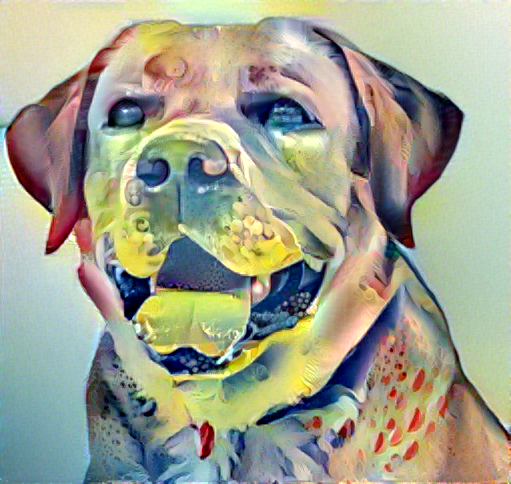
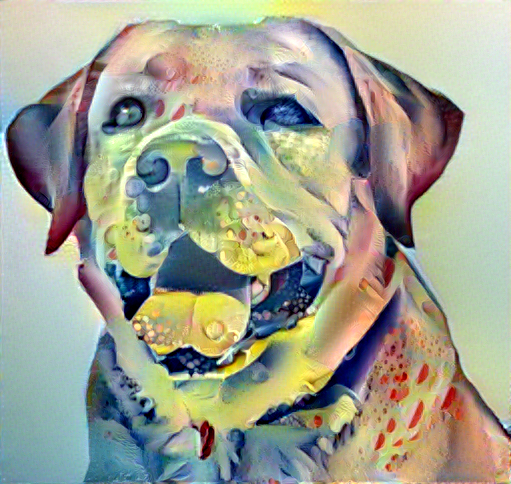
current strotts version

diff --git a/st_helper.py b/st_helper.py
@@ -2,6 +2,7 @@ import time
 import math
 import sys
 from glob import glob
+import shutil
 
 import torch
 from torch.autograd import Variable
@@ -9,13 +10,13 @@ import torch.nn.functional as F
 import torch.optim as optim
 from imageio import imread, imwrite
 
-import utils
-from utils import *
-from vgg_pt import *
-from pyr_lap import *
-from stylize_objectives import objective_class
+import flaskr.strotss.utils
+from flaskr.strotss.utils import *
+from flaskr.strotss.vgg_pt import *
+from flaskr.strotss.pyr_lap import *
+from flaskr.strotss.stylize_objectives import objective_class
 
-def style_transfer(stylized_im, content_im, style_path, scl, long_side, mask, content_weight=0., use_guidance=False, regions=0, coords=0, lr=2e-3):
+def style_transfer(stylized_im, content_im, style_path, output_path, scl, long_side, mask, content_weight=0., use_guidance=False, regions=0, coords=0, lr=2e-3):
 
     REPORT_INTERVAL = 100
     RESAMPLE_FREQ = 1
@@ -23,12 +24,19 @@ def style_transfer(stylized_im, content_im, style_path, scl, long_side, mask, co
     MAX_ITER = 250
     save_ind = 0
 
+    use_pyr=True
+    if scl > 3:
+        use_pyr = False
+
+    temp_name = './'+output_path.split('/')[-1].split('.')[0]+'_temp.png'
+
     ### Keep track of current output image for GUI ###
-    canvas = torch.clamp(stylized_im[0],-0.5,0.5).data.cpu().numpy().transpose(1,2,0)
-    imwrite('./output.png',canvas)
+    canvas = aug_canvas(stylized_im, scl, 0)
+    imwrite(temp_name, canvas)
+    shutil.move(temp_name, output_path)
 
     #### Define feature extractor ###
-    cnn = utils.to_device(Vgg16_pt())
+    cnn = flaskr.strotss.utils.to_device(Vgg16_pt())
 
     phi = lambda x: cnn.forward(x)
     phi2 = lambda x, y, z: cnn.forward_cat(x,z,samps=y,forward_func=cnn.forward)
@@ -38,9 +46,12 @@ def style_transfer(stylized_im, content_im, style_path, scl, long_side, mask, co
 
 
     ### Define Optimizer ###
+    if use_pyr:
+        s_pyr = dec_lap_pyr(stylized_im,5)
+        s_pyr = [Variable(li.data,requires_grad=True) for li in s_pyr]
+    else:
+        s_pyr = [Variable(stylized_im.data,requires_grad=True)]
 
-    s_pyr = dec_lap_pyr(stylized_im,5)
-    s_pyr = [Variable(li.data,requires_grad=True) for li in s_pyr]
     optimizer =  optim.RMSprop(s_pyr,lr=lr)
 
     ### Pre-Extract Content Features ###
@@ -66,9 +77,16 @@ def style_transfer(stylized_im, content_im, style_path, scl, long_side, mask, co
 
 
     ### Randomly choose spatial locations to extract features from ###
-    stylized_im = syn_lap_pyr(s_pyr)
+    if use_pyr:
+        stylized_im = syn_lap_pyr(s_pyr)
+    else:
+        stylized_im = s_pyr[0]
+
     for ri in range(len(regions[0])):
-        r=imresize(regions[0][ri],(stylized_im.size(3),stylized_im.size(2)),interp='bilinear')
+        
+        r_temp = regions[1][ri]
+        r_temp = torch.from_numpy(r_temp).unsqueeze(0).unsqueeze(0).contiguous()
+        r = F.upsample(r_temp,(stylized_im.size(3),stylized_im.size(2)),mode='bilinear')[0,0,:,:].numpy()        
 
         if r.max()<0.1:
             r = np.greater(r+1.,0.5)
@@ -86,18 +104,24 @@ def style_transfer(stylized_im, content_im, style_path, scl, long_side, mask, co
 
         ### zero out gradients and compute output image from pyramid ##
         optimizer.zero_grad()
-        stylized_im = syn_lap_pyr(s_pyr)
-
+        if use_pyr:
+            stylized_im = syn_lap_pyr(s_pyr)
+        else:
+            stylized_im = s_pyr[0]
 
         ## Dramatically Resample Large Set of Spatial Locations ##
         if i==0 or i%(RESAMPLE_FREQ*10) == 0:
             for ri in range(len(regions[0])):
-                r=imresize(regions[0][ri],(stylized_im.size(3),stylized_im.size(2)),interp='bilinear')
+                
+                r_temp = regions[1][ri]
+                r_temp = torch.from_numpy(r_temp).unsqueeze(0).unsqueeze(0).contiguous()
+                r = F.upsample(r_temp,(stylized_im.size(3),stylized_im.size(2)),mode='bilinear')[0,0,:,:].numpy()        
 
                 if r.max()<0.1:
                     r = np.greater(r+1.,0.5)
                 else:
                     r = np.greater(r,0.5)
+
                 objective_wrapper.init_inds(z_c, z_s_all,r,ri)
 
         ## Subsample spatial locations to compute loss over ##
@@ -115,16 +139,14 @@ def style_transfer(stylized_im, content_im, style_path, scl, long_side, mask, co
             
         ## Periodically save output image for GUI ###
         if (i+1)%10==0:
-            canvas = torch.clamp(stylized_im[0],-0.5,0.5).data.cpu().numpy().transpose(1,2,0)
-            imwrite('./output.png',canvas)
+            canvas = aug_canvas(stylized_im, scl, i)
+            imwrite(temp_name, canvas)
+            shutil.move(temp_name, output_path)
 
         ### Periodically Report Loss and Save Current Image ###
         if (i+1)%REPORT_INTERVAL == 0:
             print((i+1),ell)
             save_ind += 1
 
-    ### Keep track of current output image for GUI ###
-    canvas = torch.clamp(stylized_im[0],-0.5,0.5).data.cpu().numpy().transpose(1,2,0)
-    imwrite('./output.png',canvas)
 
     return stylized_im, ell

diff --git a/styleTransfer.py b/styleTransfer.py
@@ -9,9 +9,9 @@ import torch.optim as optim
 import numpy as np
 from imageio import imread, imwrite
 
-from st_helper import *
-import utils
-from utils import *
+from flaskr.strotss.st_helper import *
+import flaskr.strotss.utils
+from flaskr.strotss.utils import *
 
 def run_st(content_path, style_path, content_weight, max_scl, coords, use_guidance,regions, output_path='./output.png'):
 
@@ -19,7 +19,7 @@ def run_st(content_path, style_path, content_weight, max_scl, coords, use_guidan
     
     start = time.time()
 
-    content_im_big = utils.to_device(Variable(load_path_for_pytorch(content_path,512,force_scale=True).unsqueeze(0)))
+    content_im_big = flaskr.strotss.utils.to_device(Variable(load_path_for_pytorch(content_path,512,force_scale=True).unsqueeze(0)))
 
     for scl in range(1,max_scl):
 
@@ -27,8 +27,8 @@ def run_st(content_path, style_path, content_weight, max_scl, coords, use_guidan
         lr = 2e-3
 
         ### Load Style and Content Image ###
-        content_im = utils.to_device(Variable(load_path_for_pytorch(content_path,long_side,force_scale=True).unsqueeze(0)))
-        content_im_mean = utils.to_device(Variable(load_path_for_pytorch(style_path,long_side,force_scale=True).unsqueeze(0))).mean(2,keepdim=True).mean(3,keepdim=True)
+        content_im = flaskr.strotss.utils.to_device(Variable(load_path_for_pytorch(content_path,long_side,force_scale=True).unsqueeze(0)))
+        content_im_mean = flaskr.strotss.utils.to_device(Variable(load_path_for_pytorch(style_path,long_side,force_scale=True).unsqueeze(0))).mean(2,keepdim=True).mean(3,keepdim=True)
         
         ### Compute bottom level of laplaccian pyramid for content image at current scale ###
         lap = content_im.clone()-F.upsample(F.upsample(content_im,(content_im.size(2)//2,content_im.size(3)//2),mode='bilinear'),(content_im.size(2),content_im.size(3)),mode='bilinear')
@@ -57,7 +57,7 @@ def run_st(content_path, style_path, content_weight, max_scl, coords, use_guidan
             lr = 1e-3
 
         ### Style Transfer at this scale ###
-        stylized_im, final_loss = style_transfer(stylized_im, content_im, style_path, scl, long_side, 0., use_guidance=use_guidance, coords=coords, content_weight=content_weight, lr=lr, regions=regions)
+        stylized_im, final_loss = style_transfer(stylized_im, content_im, style_path, output_path, scl, long_side, 0., use_guidance=use_guidance, coords=coords, content_weight=content_weight, lr=lr, regions=regions)
 
         canvas = F.upsample(torch.clamp(stylized_im,-0.5,0.5),(content_im.size(2),content_im.size(3)),mode='bilinear')[0].data.cpu().numpy().transpose(1,2,0)
         
@@ -82,7 +82,7 @@ if __name__=='__main__':
     use_guidance = '-g' in sys.argv
     use_guidance_region = '-gr' in sys.argv
     use_gpu = not ('-cpu' in sys.argv)
-    utils.use_gpu = use_gpu
+    flaskr.strotss.utils.use_gpu = use_gpu
 
 
     paths = glob(style_path+'*')
@@ -93,10 +93,10 @@ if __name__=='__main__':
     ### Preprocess User Guidance if Required ###
     coords=0.
     if use_guidance:
-        coords = utils.build_guidance(content_path,style_path,np.load('saved_guide01.npy'))
+        coords = flaskr.strotss.utils.build_guidance(content_path,style_path,np.load('saved_guide01.npy'))
 
     if use_guidance_region:
-        regions = utils.extract_regions('./owls_g_c.jpg','./vase_g_s.jpg')
+        regions = flaskr.strotss.utils.extract_regions('./owls_g_c.jpg','./vase_g_s.jpg')
     else:
         try:
             regions = [[imread(content_path)[:,:,0]*0.+1.], [imread(style_path)[:,:,0]*0.+1.]]

diff --git a/contextual_loss.py b/contextual_loss.py
@@ -3,8 +3,7 @@ from torch.autograd import Variable
 import torch.nn.functional as F
 import numpy as np
 import time
-import utils
-from scipy.misc import imsave
+import flaskr.strotss.utils
 
 def pairwise_distances_sq_l2(x, y):
 
@@ -35,7 +34,7 @@ def pairwise_distances_cos(x, y):
 def get_DMat(X,Y,h=1.0,cb=0,splits=[128*3+256*3+512*4], cos_d=True):
     n = X.size(0)
     m = Y.size(0)
-    M = utils.to_device(Variable(torch.zeros(n,m)))
+    M = flaskr.strotss.utils.to_device(Variable(torch.zeros(n,m)))
 
 
     if 1:
@@ -83,9 +82,6 @@ def viz_d(zx,coords):
 
     vis_o = viz.clone()
     viz = viz.data.cpu().numpy()[0,0,:,:]/len(zx)
-    #imsave('dviz.png',viz)
-
-
     return vis_o
 
 # [3,64,64,128,128,256,256,256,512,512,512,512,512,512]
@@ -97,8 +93,8 @@ def remd_loss(X,Y, h=None, cos_d=True, splits= [3+64+64+128+128+256+256+256+512+
 
 
     if d == 3:
-        X = utils.rgb_to_yuv_pc(X.transpose(0,1).contiguous().view(d,-1)).transpose(0,1)
-        Y = utils.rgb_to_yuv_pc(Y.transpose(0,1).contiguous().view(d,-1)).transpose(0,1)
+        X = flaskr.strotss.utils.rgb_to_yuv_pc(X.transpose(0,1).contiguous().view(d,-1)).transpose(0,1)
+        Y = flaskr.strotss.utils.rgb_to_yuv_pc(Y.transpose(0,1).contiguous().view(d,-1)).transpose(0,1)
 
     else:
         X = X.transpose(0,1).contiguous().view(d,-1).transpose(0,1)
@@ -139,10 +135,10 @@ def remd_loss_g(X,Y, GX, GY, h=1.0, splits= [3+64+64+128+128+256+256+256+512+512
     d = X.size(1)
 
     if d == 3:
-        X = utils.rgb_to_yuv_pc(X.transpose(0,1).contiguous().view(d,-1)).transpose(0,1)
-        Y = utils.rgb_to_yuv_pc(Y.transpose(0,1).contiguous().view(d,-1)).transpose(0,1)
-        GX = utils.rgb_to_yuv_pc(GX.transpose(0,1).contiguous().view(d,-1)).transpose(0,1)
-        GY = utils.rgb_to_yuv_pc(GY.transpose(0,1).contiguous().view(d,-1)).transpose(0,1)
+        X = flaskr.strotss.utils.rgb_to_yuv_pc(X.transpose(0,1).contiguous().view(d,-1)).transpose(0,1)
+        Y = flaskr.strotss.utils.rgb_to_yuv_pc(Y.transpose(0,1).contiguous().view(d,-1)).transpose(0,1)
+        GX = flaskr.strotss.utils.rgb_to_yuv_pc(GX.transpose(0,1).contiguous().view(d,-1)).transpose(0,1)
+        GY = flaskr.strotss.utils.rgb_to_yuv_pc(GY.transpose(0,1).contiguous().view(d,-1)).transpose(0,1)
 
 
     else:

diff --git a/utils.py b/utils.py
@@ -10,6 +10,9 @@ import torch.nn as nn
 import torch.nn.functional as F
 import torch
 from imageio import imread
+from PIL import Image
+from PIL import ImageFont
+from PIL import ImageDraw 
 
 use_gpu = True
 
@@ -25,6 +28,41 @@ def match_device(ref, mut):
 
 #Define YUV color transform
 C = torch.from_numpy(np.float32([[0.577350,0.577350,0.577350],[-0.577350,0.788675,-0.211325],[-0.577350,-0.211325,0.788675]]))
+
+wip_img = torch.from_numpy(imread('./flaskr/static/output_ims/wip.png').astype(np.float32)).permute(2,0,1).unsqueeze(0)
+wip_img = F.upsample(wip_img,(100,100),mode='bilinear')
+def aug_canvas(canvas, scale, s_iter):
+
+    h = canvas.size(2)
+    w = canvas.size(3)
+
+    mx = max(h,w)
+
+    frac = 512./float(mx)
+
+    h = int(h*frac)
+    w = int(w*frac)
+
+    prg = 0.
+    if scale < 4:
+        prg = (scale-1)*0.21+s_iter/250.*0.21
+    else:
+        prg = 0.63+s_iter/250.*0.37
+    prg = int(prg*100.)
+
+    canvas = F.upsample(canvas,(h,w),mode='bilinear').cpu()
+
+    canvas = torch.clamp(canvas[0],-0.5,0.5).data.numpy().transpose(1,2,0)
+
+    canvas = Image.fromarray(np.uint8((canvas+0.5)*255))
+
+    draw = ImageDraw.Draw(canvas)
+    # font = ImageFont.truetype(<font-file>, <font-size>)
+    font = ImageFont.truetype("./flaskr/static/DroidSansMono.ttf", 16)
+    # draw.text((x, y),"Sample Text",(r,g,b))
+    draw.text((0, 0),"Progress: {0}%".format(prg),(0,255,0),font=font)
+
+    return np.array(canvas)
 
 def rgb_to_yuv(rgb):
 
@@ -313,7 +351,7 @@ def load_style_folder(phi, paths, regions, ri, n_samps=-1,subsamps=-1,scale=-1, 
         
         r_temp = regions[1][ri]
         r_temp = torch.from_numpy(r_temp).unsqueeze(0).unsqueeze(0).contiguous()
-        r = F.upsample(r_temp,(style_im.size(2),style_im.size(3)),mode='bilinear')[0,0,:,:].numpy()        
+        r = F.upsample(r_temp,(style_im.size(3),style_im.size(2)),mode='bilinear')[0,0,:,:].numpy()        
         sts = [style_im]
 
         z_ims.append(style_im)

diff --git a/stylize_objectives.py b/stylize_objectives.py
@@ -3,10 +3,9 @@ import math
 import torch
 from torch.autograd import Variable
 import torch.nn.functional as F
-from scipy.misc import imresize
 
-from contextual_loss import *
-import utils
+from flaskr.strotss.contextual_loss import *
+import flaskr.strotss.utils
 
 
 class objective_class():
@@ -147,7 +146,7 @@ class objective_class():
             try:
                 xc = xc[region_mask[xy[:,0],xx[:,0]],:]
             except:
-                region_mask = region_mask[:,:,0]
+                region_mask = region_mask[:,:]
                 xc = xc[region_mask[xy[:,0],xx[:,0]],:]
 
             #np.random.shuffle(xc)
@@ -194,10 +193,10 @@ class objective_class():
             xym = np.floor(xy).astype(np.float32)
             xyr = xy - xym
 
-            w00 = utils.to_device(torch.from_numpy((1.-xxr)*(1.-xyr))).float().unsqueeze(0).unsqueeze(1).unsqueeze(3)
-            w01 = utils.to_device(torch.from_numpy((1.-xxr)*xyr)).float().unsqueeze(0).unsqueeze(1).unsqueeze(3)
-            w10 = utils.to_device(torch.from_numpy(xxr*(1.-xyr))).float().unsqueeze(0).unsqueeze(1).unsqueeze(3)
-            w11 = utils.to_device(torch.from_numpy(xxr*xyr)).float().unsqueeze(0).unsqueeze(1).unsqueeze(3)
+            w00 = flaskr.strotss.utils.to_device(torch.from_numpy((1.-xxr)*(1.-xyr))).float().unsqueeze(0).unsqueeze(1).unsqueeze(3)
+            w01 = flaskr.strotss.utils.to_device(torch.from_numpy((1.-xxr)*xyr)).float().unsqueeze(0).unsqueeze(1).unsqueeze(3)
+            w10 = flaskr.strotss.utils.to_device(torch.from_numpy(xxr*(1.-xyr))).float().unsqueeze(0).unsqueeze(1).unsqueeze(3)
+            w11 = flaskr.strotss.utils.to_device(torch.from_numpy(xxr*xyr)).float().unsqueeze(0).unsqueeze(1).unsqueeze(3)
 
 
             xxm = np.clip(xxm.astype(np.int32),0,temp.size(2)-1)

diff --git a/vgg_pt.py b/vgg_pt.py
@@ -7,7 +7,6 @@ from torch.autograd import Variable
 import torch
 from torchvision import models
 import numpy as np
-from scipy.misc import imresize
 
 ssl._create_default_https_context = ssl._create_unverified_context
 
